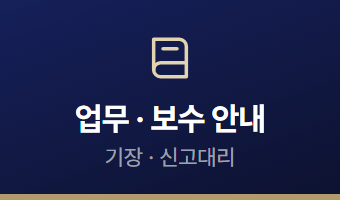
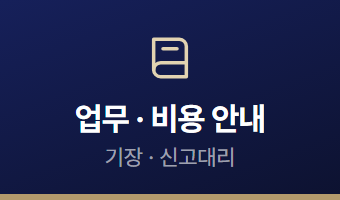
보수 안내 → 비용 안내 (메뉴·진행과정·블로그 버튼4)

Changed region(s): [[0.4412, 0.51, 0.6176, 0.66]]

diff --git a/index.html b/index.html
@@ -609,7 +609,7 @@
       <a href="#why">수호의 약속</a>
       <a href="#director">대표 세무사</a>
       <a href="#service">업무 안내</a>
-      <a href="#price">보수 안내</a>
+      <a href="#price">비용 안내</a>
       <a href="#visit">오시는 길</a>
     </nav>
     <a class="head-call" href="tel:024351474">02-435-1474</a>
@@ -623,7 +623,7 @@
   <a class="item" href="#director">대표 세무사 <small>GREETING</small></a>
   <a class="item" href="#service">업무 안내 <small>SERVICES</small></a>
   <a class="item" href="#ask">자주 받는 질문 <small>QUESTIONS</small></a>
-  <a class="item" href="#price">보수 안내 <small>FEE</small></a>
+  <a class="item" href="#price">비용 안내 <small>FEE</small></a>
   <a class="item" href="#calendar">세무 일정 <small>CALENDAR</small></a>
   <a class="item" href="#visit">오시는 길 <small>LOCATION</small></a>
   <div class="m-contact">
@@ -814,7 +814,7 @@
       </div>
       <div class="steps stagger">
         <div class="step"><div class="dot">01</div><h3>현재 상황 확인</h3><p>전화·카카오톡·방문 무료 상담으로 사업 형태와 매출·비용 구조를 파악합니다.</p></div>
-        <div class="step"><div class="dot">02</div><h3>보수 안내</h3><p>업종과 규모를 보고 정확한 금액을 미리 알려드립니다.</p></div>
+        <div class="step"><div class="dot">02</div><h3>비용 안내</h3><p>업종과 규모를 보고 정확한 금액을 미리 알려드립니다.</p></div>
         <div class="step"><div class="dot">03</div><h3>자료 정리</h3><p>필요한 자료를 안내해 드리고, 이전 사무실 자료도 받아옵니다.</p></div>
         <div class="step"><div class="dot">04</div><h3>매월 체계적인 관리</h3><p>매출·비용·증빙을 정리하고 신고 일정에 맞춰 관리합니다.</p></div>
       </div>
